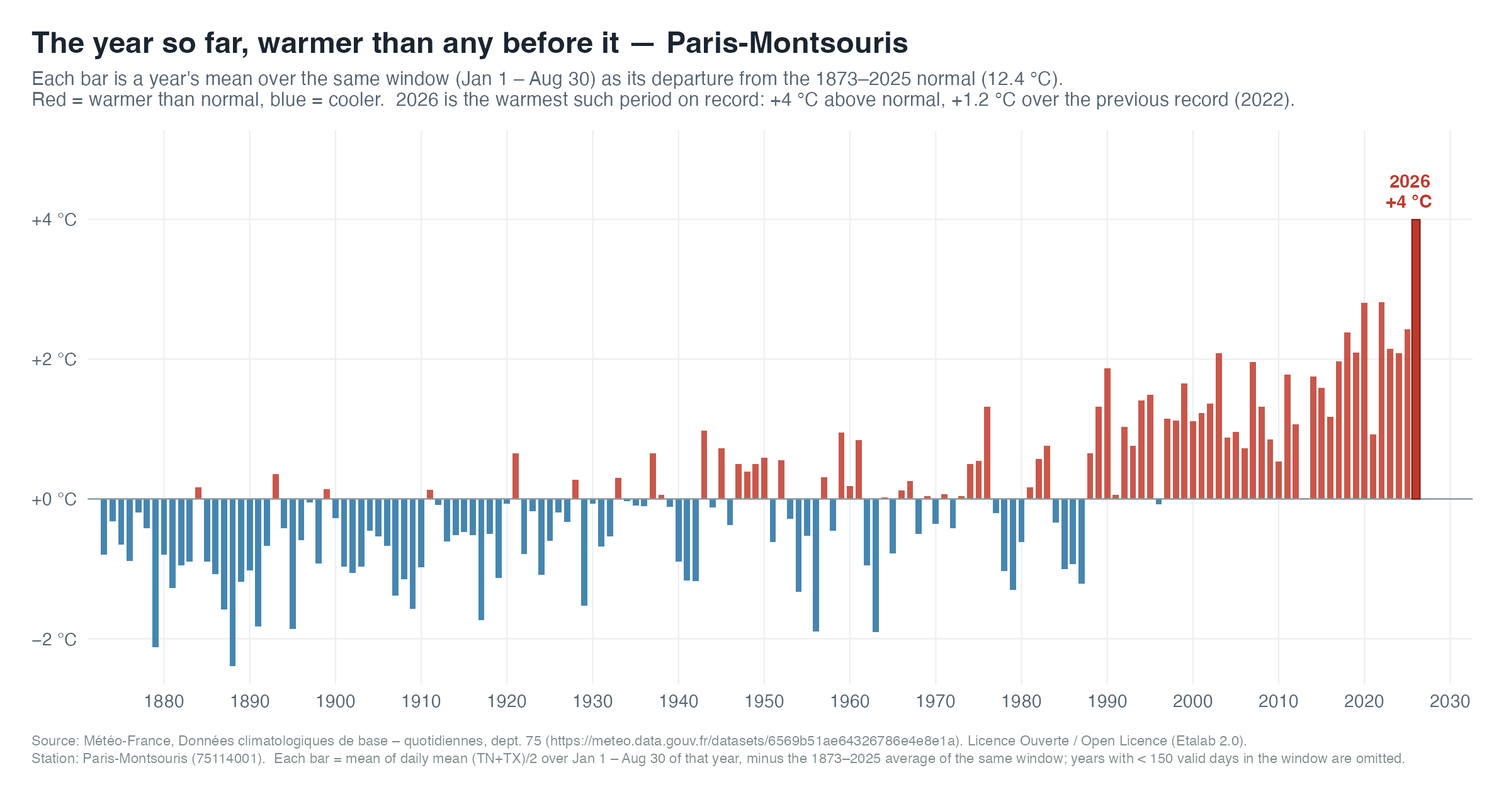
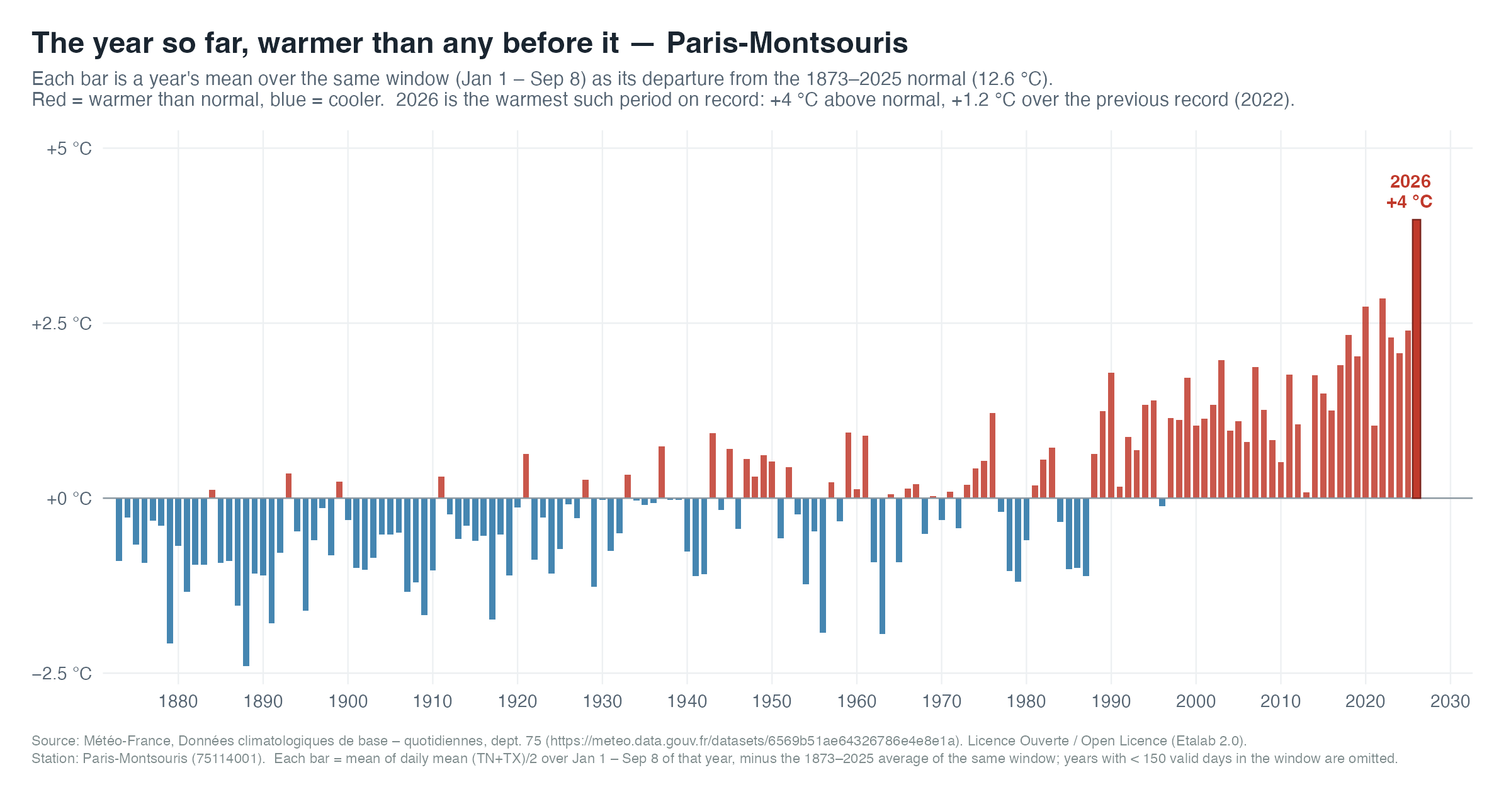
Data refresh: observations through 2026-09-08

diff --git a/README.md b/README.md
@@ -38,17 +38,17 @@ amounts of evidence — the record span and the count of complete years are in t
 | City | Country | Record | °C/decade | 1971→ | Standing | Window ranked | Data current through |
 |---|---|---:|---:|---:|---|---|---|
 | [Voronezh](#a-warming-climate-seen-from-voronezh) | Russia | 1940→2025 (86 yr, 82 complete) | **+0.46** | +0.60 | #55 of 84 | 2026, Jan 1 – Feb 28 · 59 d | Feb 28, 2026 † |
-| [Lalitpur](#a-warming-climate-seen-from-lalitpur) | Nepal | 1971→2025 (55 yr, 44 complete) | **+0.41** | +0.41 | #3 of 45 | 2026, Jan 1 – Sep 2 · 245 d | Sep 2, 2026 |
+| [Lalitpur](#a-warming-climate-seen-from-lalitpur) | Nepal | 1971→2025 (55 yr, 44 complete) | **+0.41** | +0.41 | #3 of 45 | 2026, Jan 1 – Sep 10 · 253 d | Sep 10, 2026 |
 | [Moscow](#a-warming-climate-seen-from-moscow) | Russia | 1949→2025 (77 yr, 77 complete) | **+0.39** | +0.49 | #1 of 77 — record | 2025, full year | Dec 31, 2025 † |
-| [Castanet-Tolosan](#a-warming-climate-seen-from-castanet-tolosan) | France | 1947→2025 (79 yr, 79 complete) | **+0.34** | +0.50 | #1 of 80 — record | 2026, Jan 1 – Aug 30 · 242 d | Aug 30, 2026 |
+| [Castanet-Tolosan](#a-warming-climate-seen-from-castanet-tolosan) | France | 1947→2025 (79 yr, 79 complete) | **+0.34** | +0.50 | #1 of 80 — record | 2026, Jan 1 – Sep 8 · 251 d | Sep 8, 2026 |
 | [Irvine](#a-warming-climate-seen-from-irvine) | USA | 1915→2025 (111 yr, 95 complete) | **+0.27** | +0.56 | #4 of 99 | 2026, Jan 1 – Jul 31 · 212 d | Jul 31, 2026 |
-| [Lyon](#a-warming-climate-seen-from-lyon) | France | 1921→2025 (105 yr, 105 complete) | **+0.26** | +0.58 | #1 of 106 — record | 2026, Jan 1 – Aug 30 · 242 d | Aug 30, 2026 |
-| [Honolulu](#a-warming-climate-seen-from-honolulu) | USA | 1950→2025 (76 yr, 76 complete) | **+0.20** | +0.17 | #16 of 84 | 2026, Jan 1 – Aug 29 · 241 d | Aug 29, 2026 |
-| [Nouméa](#a-warming-climate-seen-from-nouméa) | France | 1951→2025 (75 yr, 75 complete) | **+0.19** | +0.22 | #7 of 76 | 2026, Jan 1 – Aug 31 · 243 d | Aug 31, 2026 |
-| [Paris](#a-warming-climate-seen-from-paris) | France | 1873→2025 (153 yr, 153 complete) | **+0.18** | +0.43 | #1 of 154 — record | 2026, Jan 1 – Aug 30 · 242 d | Aug 30, 2026 |
-| [Albuquerque](#a-warming-climate-seen-from-albuquerque) | USA | 1932→2025 (94 yr, 94 complete) | **+0.18** | +0.38 | #1 of 95 — record | 2026, Jan 1 – Aug 29 · 241 d | Aug 29, 2026 |
-| [Zurich](#a-warming-climate-seen-from-zurich) | Switzerland | 1882→2025 (144 yr, 143 complete) | **+0.18** | +0.47 | #1 of 144 — record | 2026, Jan 1 – Aug 31 · 243 d | Aug 31, 2026 |
-| [Karlsruhe](#a-warming-climate-seen-from-karlsruhe) | Germany | 1876→2025 (150 yr, 148 complete) | **+0.14** | +0.29 | #2 of 150 | 2026, Jan 1 – Aug 31 · 243 d | Aug 31, 2026 |
+| [Lyon](#a-warming-climate-seen-from-lyon) | France | 1921→2025 (105 yr, 105 complete) | **+0.26** | +0.58 | #1 of 106 — record | 2026, Jan 1 – Sep 8 · 251 d | Sep 8, 2026 |
+| [Honolulu](#a-warming-climate-seen-from-honolulu) | USA | 1950→2025 (76 yr, 76 complete) | **+0.20** | +0.17 | #15 of 84 | 2026, Jan 1 – Sep 7 · 250 d | Sep 7, 2026 |
+| [Nouméa](#a-warming-climate-seen-from-nouméa) | France | 1951→2025 (75 yr, 75 complete) | **+0.19** | +0.22 | #7 of 76 | 2026, Jan 1 – Sep 9 · 252 d | Sep 9, 2026 |
+| [Paris](#a-warming-climate-seen-from-paris) | France | 1873→2025 (153 yr, 153 complete) | **+0.18** | +0.43 | #1 of 154 — record | 2026, Jan 1 – Sep 8 · 251 d | Sep 8, 2026 |
+| [Albuquerque](#a-warming-climate-seen-from-albuquerque) | USA | 1932→2025 (94 yr, 94 complete) | **+0.18** | +0.38 | #1 of 95 — record | 2026, Jan 1 – Sep 7 · 250 d | Sep 7, 2026 |
+| [Zurich](#a-warming-climate-seen-from-zurich) | Switzerland | 1882→2025 (144 yr, 143 complete) | **+0.18** | +0.47 | #1 of 144 — record | 2026, Jan 1 – Sep 8 · 251 d | Sep 8, 2026 |
+| [Karlsruhe](#a-warming-climate-seen-from-karlsruhe) | Germany | 1876→2025 (150 yr, 148 complete) | **+0.14** | +0.29 | #1 of 150 — record | 2026, Jan 1 – Sep 8 · 251 d | Sep 8, 2026 |
 | [Santa Fe](#a-warming-climate-seen-from-santa-fe) | USA | 1874→2025 (152 yr, 138 complete) | **+0.08** | +0.09 | #1 of 147 — record | 2026, Jan 1 – Jun 30 · 181 d | Jun 30, 2026 |
 
 † Moscow and Voronezh are manually exported from Roshydromet’s AISORI-M (login-gated, no automated
@@ -158,7 +158,7 @@ the mid-20th century, daily minimum, maximum and mean temperatures have all rise
 | Frost days per year, 1947–1956 → 2016–2025 | **46 → 18** |
 | Hot days (≥ 30 °C) per year, 1947–1956 → 2016–2025 | **24 → 47** |
 | Complete station-years analysed | **101** |
-| 2026 year-to-date (Jan 1 – Aug 30), against 79 prior years | **#1 of 80 — record** |
+| 2026 year-to-date (Jan 1 – Sep 8), against 79 prior years | **#1 of 80 — record** |
 
 ### The long view: annual means
 
@@ -177,12 +177,12 @@ whole period. The local Auzeville-Tolosane-INRAE station only covers 2004→2025
 
 ![Per-year mean over the same Jan-to-cutoff window, as a departure from the 1947–2025 mean, with 2026 the largest bar](outputs/figures/temperature_ytd.png)
 
-<sub>Each bar is a year’s mean over the <em>same window</em> — <strong>Jan 1 – Aug 30</strong> —
-shown as its departure from the 1947–2025 mean (14.2 °C): red above, blue
+<sub>Each bar is a year’s mean over the <em>same window</em> — <strong>Jan 1 – Sep 8</strong> —
+shown as its departure from the 1947–2025 mean (14.4 °C): red above, blue
 below. Holding the part-of-year identical is what makes one year comparable with another. The bars swing from blue to red over
 the decades — and 2026 is the tallest of all.</sub>
 
-Measured like-for-like, **2026 is the warmest Jan 1 – Aug 30 in 80 years** at Toulouse-Blagnac: **17.5 °C** — +0.9 °C above the previous record (2025, 16.6 °C) and **+3.4 °C above the 1947–2025 mean** (14.2 °C).
+Measured like-for-like, **2026 is the warmest Jan 1 – Sep 8 in 80 years** at Toulouse-Blagnac: **17.8 °C** — +0.9 °C above the previous record (2022, 16.9 °C) and **+3.4 °C above the 1947–2025 mean** (14.4 °C).
 
 > [!NOTE]
 > A part-year mean cannot be compared with other years' full-year means. That is why 2026 appears on the long-view chart above only as a marked, hollow "to date" point — a part-year mean on an axis of full-year means — while its like-for-like standing is the chart here.
@@ -237,7 +237,7 @@ At Toulouse-Blagnac, the all-time heat (2023-08-23) postdates the all-time cold 
 | 2023 | 10.7 | 20.8 | **15.7** |
 | 2024 | 10.5 | 19.6 | **15.1** |
 | 2025 | 10.7 | 20.6 | **15.6** |
-| 2026 *(to date)* | 12.1 | 22.9 | **17.5** |
+| 2026 *(to date)* | 12.4 | 23.2 | **17.8** |
 
 ### Frost days down, hot days up
 
@@ -309,7 +309,7 @@ the late 19th century, daily minimum, maximum and mean temperatures have all ris
 | Frost days per year, 1873–1882 → 2016–2025 | **55 → 15** |
 | Hot days (≥ 30 °C) per year, 1873–1882 → 2016–2025 | **8 → 20** |
 | Complete station-years analysed | **198** |
-| 2026 year-to-date (Jan 1 – Aug 30), against 153 prior years | **#1 of 154 — record** |
+| 2026 year-to-date (Jan 1 – Sep 8), against 153 prior years | **#1 of 154 — record** |
 
 ### The long view: annual means
 
@@ -328,12 +328,12 @@ whole period. The local Paris-Luxembourg station only covers 1978→2025. Its sl
 
 ![Per-year mean over the same Jan-to-cutoff window, as a departure from the 1873–2025 mean, with 2026 the largest bar](outputs/paris/figures/temperature_ytd.png)
 
-<sub>Each bar is a year’s mean over the <em>same window</em> — <strong>Jan 1 – Aug 30</strong> —
-shown as its departure from the 1873–2025 mean (12.4 °C): red above, blue
+<sub>Each bar is a year’s mean over the <em>same window</em> — <strong>Jan 1 – Sep 8</strong> —
+shown as its departure from the 1873–2025 mean (12.6 °C): red above, blue
 below. Holding the part-of-year identical is what makes one year comparable with another. The bars swing from blue to red over
 the decades — and 2026 is the tallest of all.</sub>
 
-Measured like-for-like, **2026 is the warmest Jan 1 – Aug 30 in 154 years** at Paris-Montsouris: **16.4 °C** — +1.2 °C above the previous record (2022, 15.2 °C) and **+4.0 °C above the 1873–2025 mean** (12.4 °C).
+Measured like-for-like, **2026 is the warmest Jan 1 – Sep 8 in 154 years** at Paris-Montsouris: **16.6 °C** — +1.2 °C above the previous record (2022, 15.4 °C) and **+4.0 °C above the 1873–2025 mean** (12.6 °C).
 
 > [!NOTE]
 > A part-year mean cannot be compared with other years' full-year means. That is why 2026 appears on the long-view chart above only as a marked, hollow "to date" point — a part-year mean on an axis of full-year means — while its like-for-like standing is the chart here.
@@ -388,7 +388,7 @@ At Paris-Montsouris, the all-time heat (2019-07-25) postdates the all-time cold 
 | 2023 | 10.5 | 18.0 | **14.3** |
 | 2024 | 10.1 | 17.0 | **13.6** |
 | 2025 | 9.9 | 17.8 | **13.8** |
-| 2026 *(to date)* | 11.7 | 21.1 | **16.4** |
+| 2026 *(to date)* | 11.9 | 21.3 | **16.6** |
 
 ### Frost days down, hot days up
 
@@ -460,7 +460,7 @@ the early 20th century, daily minimum, maximum and mean temperatures have all ri
 | Frost days per year, 1921–1930 → 2016–2025 | **64 → 33** |
 | Hot days (≥ 30 °C) per year, 1921–1930 → 2016–2025 | **19 → 48** |
 | Complete station-years analysed | **155** |
-| 2026 year-to-date (Jan 1 – Aug 30), against 105 prior years | **#1 of 106 — record** |
+| 2026 year-to-date (Jan 1 – Sep 8), against 105 prior years | **#1 of 106 — record** |
 
 ### The long view: annual means
 
@@ -479,12 +479,12 @@ whole period. The local Lyon-Saint-Exupéry station only covers 1976→2025. Its
 
 ![Per-year mean over the same Jan-to-cutoff window, as a departure from the 1921–2025 mean, with 2026 the largest bar](outputs/lyon/figures/temperature_ytd.png)
 
-<sub>Each bar is a year’s mean over the <em>same window</em> — <strong>Jan 1 – Aug 30</strong> —
-shown as its departure from the 1921–2025 mean (12.9 °C): red above, blue
+<sub>Each bar is a year’s mean over the <em>same window</em> — <strong>Jan 1 – Sep 8</strong> —
+shown as its departure from the 1921–2025 mean (13.2 °C): red above, blue
 below. Holding the part-of-year identical is what makes one year comparable with another. The bars swing from blue to red over
 the decades — and 2026 is the tallest of all.</sub>
 
-Measured like-for-like, **2026 is the warmest Jan 1 – Aug 30 in 106 years** at Lyon-Bron: **16.3 °C** — +0.6 °C above the previous record (2020, 15.7 °C) and **+3.4 °C above the 1921–2025 mean** (12.9 °C).
+Measured like-for-like, **2026 is the warmest Jan 1 – Sep 8 in 106 years** at Lyon-Bron: **16.6 °C** — +0.7 °C above the previous record (2020, 15.9 °C) and **+3.5 °C above the 1921–2025 mean** (13.2 °C).
 
 > [!NOTE]
 > A part-year mean cannot be compared with other years' full-year means. That is why 2026 appears on the long-view chart above only as a marked, hollow "to date" point — a part-year mean on an axis of full-year means — while its like-for-like standing is the chart here.
@@ -539,7 +539,7 @@ At Lyon-Bron, the all-time heat (2023-08-24) postdates the all-time cold (1938-1
 | 2023 | 9.3 | 19.7 | **14.5** |
 | 2024 | 9.4 | 18.5 | **14.0** |
 | 2025 | 9.0 | 18.8 | **13.9** |
-| 2026 *(to date)* | 10.3 | 22.4 | **16.3** |
+| 2026 *(to date)* | 10.5 | 22.7 | **16.6** |
 
 ### Frost days down, hot days up
 
@@ -611,7 +611,7 @@ the late 19th century, daily minimum, maximum and mean temperatures have all ris
 | Frost days per year, 1876–1885 → 2016–2025 | **67 → 59** |
 | Hot days (≥ 30 °C) per year, 1876–1885 → 2016–2025 | **7 → 26** |
 | Complete station-years analysed | **148** |
-| 2026 year-to-date (Jan 1 – Aug 31), against 149 prior years | **#2 of 150** |
+| 2026 year-to-date (Jan 1 – Sep 8), against 149 prior years | **#1 of 150 — record** |
 
 ### The long view: annual means
 
@@ -628,14 +628,14 @@ whole period. Karlsruhe-Wolfartsweier carries no temperature record; Rheinstette
 
 ### This year, against every year before it
 
-![Per-year mean over the same Jan-to-cutoff window, as a departure from the 1876–2025 mean, with 2026 highlighted](outputs/karlsruhe/figures/temperature_ytd.png)
+![Per-year mean over the same Jan-to-cutoff window, as a departure from the 1876–2025 mean, with 2026 the largest bar](outputs/karlsruhe/figures/temperature_ytd.png)
 
-<sub>Each bar is a year’s mean over the <em>same window</em> — <strong>Jan 1 – Aug 31</strong> —
-shown as its departure from the 1876–2025 mean (11.5 °C): red above, blue
+<sub>Each bar is a year’s mean over the <em>same window</em> — <strong>Jan 1 – Sep 8</strong> —
+shown as its departure from the 1876–2025 mean (11.7 °C): red above, blue
 below. Holding the part-of-year identical is what makes one year comparable with another. The bars swing from blue to red over
-the decades.</sub>
+the decades — and 2026 is the tallest of all.</sub>
 
-Measured like-for-like over Jan 1 – Aug 31, 2026 ranks **#2 of 150** at Rheinstetten (13.9 °C). The warmest such window on record remains 2007 (14.0 °C).
+Measured like-for-like, **2026 is the warmest Jan 1 – Sep 8 in 150 years** at Rheinstetten: **14.1 °C** — +0.0 °C above the previous record (2007, 14.1 °C) and **+2.4 °C above the 1876–2025 mean** (11.7 °C).
 
 > [!NOTE]
 > A part-year mean cannot be compared with other years' full-year means. That is why 2026 appears on the long-view chart above only as a marked, hollow "to date" point — a part-year mean on an axis of full-year means — while its like-for-like standing is the chart here.
@@ -688,7 +688,7 @@ At Rheinstetten, the all-time heat (2026-06-27) postdates the all-time cold (194
 | 2023 | 7.9 | 17.6 | **12.8** |
 | 2024 | 7.7 | 16.9 | **12.3** |
 | 2025 | 6.3 | 17.0 | **11.6** |
-| 2026 *(to date)* | 7.7 | 20.1 | **13.9** |
+| 2026 *(to date)* | 7.8 | 20.4 | **14.1** |
 
 ### Frost days down, hot days up
 
@@ -760,7 +760,7 @@ the late 19th century, daily minimum, maximum and mean temperatures have all ris
 | Frost days per year, 1882–1891 → 2016–2025 | **111 → 61** |
 | Hot days (≥ 30 °C) per year, 1882–1891 → 2016–2025 | **4 → 12** |
 | Complete station-years analysed | **190** |
-| 2026 year-to-date (Jan 1 – Aug 31), against 143 prior years | **#1 of 144 — record** |
+| 2026 year-to-date (Jan 1 – Sep 8), against 143 prior years | **#1 of 144 — record** |
 
 ### The long view: annual means
 
@@ -779,12 +779,12 @@ whole period. The local Zürich-Affoltern station only covers 1979→2025. Its s
 
 ![Per-year mean over the same Jan-to-cutoff window, as a departure from the 1882–2025 mean, with 2026 the largest bar](outputs/zurich/figures/temperature_ytd.png)
 
-<sub>Each bar is a year’s mean over the <em>same window</em> — <strong>Jan 1 – Aug 31</strong> —
-shown as its departure from the 1882–2025 mean (9.9 °C): red above, blue
+<sub>Each bar is a year’s mean over the <em>same window</em> — <strong>Jan 1 – Sep 8</strong> —
+shown as its departure from the 1882–2025 mean (10.1 °C): red above, blue
 below. Holding the part-of-year identical is what makes one year comparable with another. The bars swing from blue to red over
 the decades — and 2026 is the tallest of all.</sub>
 
-Measured like-for-like, **2026 is the warmest Jan 1 – Aug 31 in 144 years** at Zürich-Fluntern: **13.4 °C** — +0.5 °C above the previous record (2022, 12.9 °C) and **+3.5 °C above the 1882–2025 mean** (9.9 °C).
+Measured like-for-like, **2026 is the warmest Jan 1 – Sep 8 in 144 years** at Zürich-Fluntern: **13.7 °C** — +0.6 °C above the previous record (2022, 13.1 °C) and **+3.6 °C above the 1882–2025 mean** (10.1 °C).
 
 > [!NOTE]
 > A part-year mean cannot be compared with other years' full-year means. That is why 2026 appears on the long-view chart above only as a marked, hollow "to date" point — a part-year mean on an axis of full-year means — while its like-for-like standing is the chart here.
@@ -839,7 +839,7 @@ At Zürich-Fluntern, the all-time heat (2026-06-27) postdates the all-time cold 
 | 2023 | 7.8 | 15.8 | **11.8** |
 | 2024 | 7.7 | 15.0 | **11.4** |
 | 2025 | 7.0 | 14.9 | **11.0** |
-| 2026 *(to date)* | 8.5 | 18.4 | **13.4** |
+| 2026 *(to date)* | 8.7 | 18.7 | **13.7** |
 
 ### Frost days down, hot days up
 
@@ -1359,7 +1359,7 @@ the mid-20th century, daily minimum, maximum and mean temperatures have all rise
 | Frost days per year, 1932–1941 → 2016–2025 | **120 → 79** |
 | Hot days (≥ 30 °C) per year, 1932–1941 → 2016–2025 | **92 → 106** |
 | Complete station-years analysed | **124** |
-| 2026 year-to-date (Jan 1 – Aug 29), against 94 prior years | **#1 of 95 — record** |
+| 2026 year-to-date (Jan 1 – Sep 7), against 94 prior years | **#1 of 95 — record** |
 
 ### The long view: annual means
 
@@ -1378,12 +1378,12 @@ whole period. The local Albuquerque Foothills NE station only covers 1992→2025
 
 ![Per-year mean over the same Jan-to-cutoff window, as a departure from the 1932–2025 mean, with 2026 the largest bar](outputs/albuquerque/figures/temperature_ytd.png)
 
-<sub>Each bar is a year’s mean over the <em>same window</em> — <strong>Jan 1 – Aug 29</strong> —
-shown as its departure from the 1932–2025 mean (15.3 °C): red above, blue
+<sub>Each bar is a year’s mean over the <em>same window</em> — <strong>Jan 1 – Sep 7</strong> —
+shown as its departure from the 1932–2025 mean (15.6 °C): red above, blue
 below. Holding the part-of-year identical is what makes one year comparable with another. The bars swing from blue to red over
 the decades — and 2026 is the tallest of all.</sub>
 
-Measured like-for-like, **2026 is the warmest Jan 1 – Aug 29 in 95 years** at Albuquerque Airport: **18.6 °C** — +1.6 °C above the previous record (2012, 17.0 °C) and **+3.3 °C above the 1932–2025 mean** (15.3 °C).
+Measured like-for-like, **2026 is the warmest Jan 1 – Sep 7 in 95 years** at Albuquerque Airport: **18.8 °C** — +1.5 °C above the previous record (2012, 17.3 °C) and **+3.3 °C above the 1932–2025 mean** (15.6 °C).
 
 > [!NOTE]
 > A part-year mean cannot be compared with other years' full-year means. That is why 2026 appears on the long-view chart above only as a marked, hollow "to date" point — a part-year mean on an axis of full-year means — while its like-for-like standing is the chart here.
@@ -1438,7 +1438,7 @@ At Albuquerque Airport, the all-time heat (1994-06-26) postdates the all-time co
 | 2023 | 8.3 | 21.9 | **15.1** |
 | 2024 | 8.5 | 22.7 | **15.6** |
 | 2025 | 9.0 | 23.0 | **16.0** |
-| 2026 *(to date)* | 11.2 | 26.0 | **18.6** |
+| 2026 *(to date)* | 11.5 | 26.2 | **18.8** |
 
 ### Frost days down, hot days up
 
@@ -1661,7 +1661,7 @@ the mid-20th century, daily minimum, maximum and mean temperatures have all rise
 | Frost days per year, 1950–1959 → 2016–2025 | **0 → 0** |
 | Hot days (≥ 30 °C) per year, 1950–1959 → 2016–2025 | **42 → 175** |
 | Complete station-years analysed | **76** |
-| 2026 year-to-date (Jan 1 – Aug 29), against 83 prior years | **#16 of 84** |
+| 2026 year-to-date (Jan 1 – Sep 7), against 83 prior years | **#15 of 84** |
 
 ### The long view: annual means
 
@@ -1680,12 +1680,12 @@ whole period. Honolulu-Moanalua carries no temperature record; Honolulu Airport 
 
 ![Per-year mean over the same Jan-to-cutoff window, as a departure from the 1941–2025 mean, with 2026 highlighted](outputs/honolulu/figures/temperature_ytd.png)
 
-<sub>Each bar is a year’s mean over the <em>same window</em> — <strong>Jan 1 – Aug 29</strong> —
-shown as its departure from the 1941–2025 mean (25.0 °C): red above, blue
+<sub>Each bar is a year’s mean over the <em>same window</em> — <strong>Jan 1 – Sep 7</strong> —
+shown as its departure from the 1941–2025 mean (25.1 °C): red above, blue
 below. Holding the part-of-year identical is what makes one year comparable with another. The bars swing from blue to red over
 the decades.</sub>
 
-Measured like-for-like over Jan 1 – Aug 29, 2026 ranks **#16 of 84** at Honolulu Airport (25.5 °C). The warmest such window on record remains 2025 (26.2 °C).
+Measured like-for-like over Jan 1 – Sep 7, 2026 ranks **#15 of 84** at Honolulu Airport (25.6 °C). The warmest such window on record remains 2025 (26.3 °C).
 
 > [!NOTE]
 > A part-year mean cannot be compared with other years' full-year means. That is why 2026 appears on the long-view chart above only as a marked, hollow "to date" point — a part-year mean on an axis of full-year means — while its like-for-like standing is the chart here.
@@ -1738,7 +1738,7 @@ At Honolulu Airport, the all-time heat (1994-09-19) postdates the all-time cold 
 | 2023 | 22.3 | 29.5 | **25.9** |
 | 2024 | 22.2 | 29.2 | **25.7** |
 | 2025 | 22.7 | 29.9 | **26.3** |
-| 2026 *(to date)* | 22.2 | 28.8 | **25.5** |
+| 2026 *(to date)* | 22.3 | 28.9 | **25.6** |
 
 ### Frost days at zero, hot days up
 
@@ -1810,7 +1810,7 @@ the mid-20th century, daily minimum, maximum and mean temperatures have all rise
 | Frost days per year, 1951–1960 → 2016–2025 | **0 → 0** |
 | Hot days (≥ 30 °C) per year, 1951–1960 → 2016–2025 | **32 → 74** |
 | Complete station-years analysed | **137** |
-| 2026 year-to-date (Jan 1 – Aug 31), against 75 prior years | **#7 of 76** |
+| 2026 year-to-date (Jan 1 – Sep 9), against 75 prior years | **#7 of 76** |
 
 ### The long view: annual means
 
@@ -1829,12 +1829,12 @@ whole period. The local Nouméa-Magenta station only covers 1964→2025. Its slo
 
 ![Per-year mean over the same Jan-to-cutoff window, as a departure from the 1951–2025 mean, with 2026 highlighted](outputs/noumea/figures/temperature_ytd.png)
 
-<sub>Each bar is a year’s mean over the <em>same window</em> — <strong>Jan 1 – Aug 31</strong> —
-shown as its departure from the 1951–2025 mean (23.4 °C): red above, blue
+<sub>Each bar is a year’s mean over the <em>same window</em> — <strong>Jan 1 – Sep 9</strong> —
+shown as its departure from the 1951–2025 mean (23.3 °C): red above, blue
 below. Holding the part-of-year identical is what makes one year comparable with another. The bars swing from blue to red over
 the decades.</sub>
 
-Measured like-for-like over Jan 1 – Aug 31, 2026 ranks **#7 of 76** at Nouméa (24.3 °C). The warmest such window on record remains 1998 (24.9 °C).
+Measured like-for-like over Jan 1 – Sep 9, 2026 ranks **#7 of 76** at Nouméa (24.2 °C). The warmest such window on record remains 1998 (24.8 °C).
 
 > [!NOTE]
 > A part-year mean cannot be compared with other years' full-year means. That is why 2026 appears on the long-view chart above only as a marked, hollow "to date" point — a part-year mean on an axis of full-year means — while its like-for-like standing is the chart here.
@@ -1889,7 +1889,7 @@ At Nouméa, the all-time heat (1986-01-25) postdates the all-time cold (1961-08-
 | 2023 | 20.6 | 27.1 | **23.9** |
 | 2024 | 21.3 | 27.9 | **24.6** |
 | 2025 | 21.5 | 28.1 | **24.8** |
-| 2026 *(to date)* | 21.2 | 27.5 | **24.3** |
+| 2026 *(to date)* | 21.0 | 27.4 | **24.2** |
 
 ### Frost days at zero, hot days up
 
@@ -1904,7 +1904,7 @@ complete decade (1951–1960) against its last (2016–2025):
 | Tropical nights (min ≥ 20 °C) | 194 | **237** |
 
 <sub>Counts of days per year crossing each threshold, averaged over the first and last
-complete decades of the record. There was never a frost season here to retreat; the change shows up entirely on the hot side of the ledger. Read the hot-day jump with care here: 21% of recent days come within 1 °C of the 30 °C line, so the count amplifies what is really a +1.5 °C shift in the average daily maximum.</sub>
+complete decades of the record. There was never a frost season here to retreat; the change shows up entirely on the hot side of the ledger. Read the hot-day jump with care here: 20% of recent days come within 1 °C of the 30 °C line, so the count amplifies what is really a +1.5 °C shift in the average daily maximum.</sub>
 
 ### What about the rain?
 
@@ -1961,7 +1961,7 @@ the late 20th century, daily minimum, maximum and mean temperatures have all ris
 | Frost days per year, 1971–1980 → 2016–2025 | **11 → 0** |
 | Hot days (≥ 30 °C) per year, 1971–1980 → 2016–2025 | **13 → 77** |
 | Complete station-years analysed | **44** |
-| 2026 year-to-date (Jan 1 – Sep 2), against 44 prior years | **#3 of 45** |
+| 2026 year-to-date (Jan 1 – Sep 10), against 44 prior years | **#3 of 45** |
 
 ### The long view: annual means
 
@@ -1980,12 +1980,12 @@ whole period. This site has no second station — Kathmandu Airport alone provid
 
 ![Per-year mean over the same Jan-to-cutoff window, as a departure from the 1971–2025 mean, with 2026 highlighted](outputs/lalitpur/figures/temperature_ytd.png)
 
-<sub>Each bar is a year’s mean over the <em>same window</em> — <strong>Jan 1 – Sep 2</strong> —
-shown as its departure from the 1971–2025 mean (19.3 °C): red above, blue
+<sub>Each bar is a year’s mean over the <em>same window</em> — <strong>Jan 1 – Sep 10</strong> —
+shown as its departure from the 1971–2025 mean (19.5 °C): red above, blue
 below. Holding the part-of-year identical is what makes one year comparable with another. The bars swing from blue to red over
 the decades.</sub>
 
-Measured like-for-like over Jan 1 – Sep 2, 2026 ranks **#3 of 45** at Kathmandu Airport (20.6 °C). The warmest such window on record remains 2024 (20.9 °C).
+Measured like-for-like over Jan 1 – Sep 10, 2026 ranks **#3 of 45** at Kathmandu Airport (20.7 °C). The warmest such window on record remains 2024 (21.0 °C).
 
 > [!NOTE]
 > A part-year mean cannot be compared with other years' full-year means. That is why 2026 appears on the long-view chart above only as a marked, hollow "to date" point — a part-year mean on an axis of full-year means — while its like-for-like standing is the chart here.
@@ -2038,7 +2038,7 @@ At Kathmandu Airport the all-time cold (2013-01-10) postdates the all-time heat 
 | 2023 | 13.5 | 26.3 | **19.9** |
 | 2024 | 13.9 | 26.5 | **20.2** |
 | 2025 | 14.1 | 26.1 | **20.1** |
-| 2026 *(to date)* | 14.6 | 26.6 | **20.6** |
+| 2026 *(to date)* | 14.8 | 26.7 | **20.7** |
 
 ### Frost days down, hot days up
 
